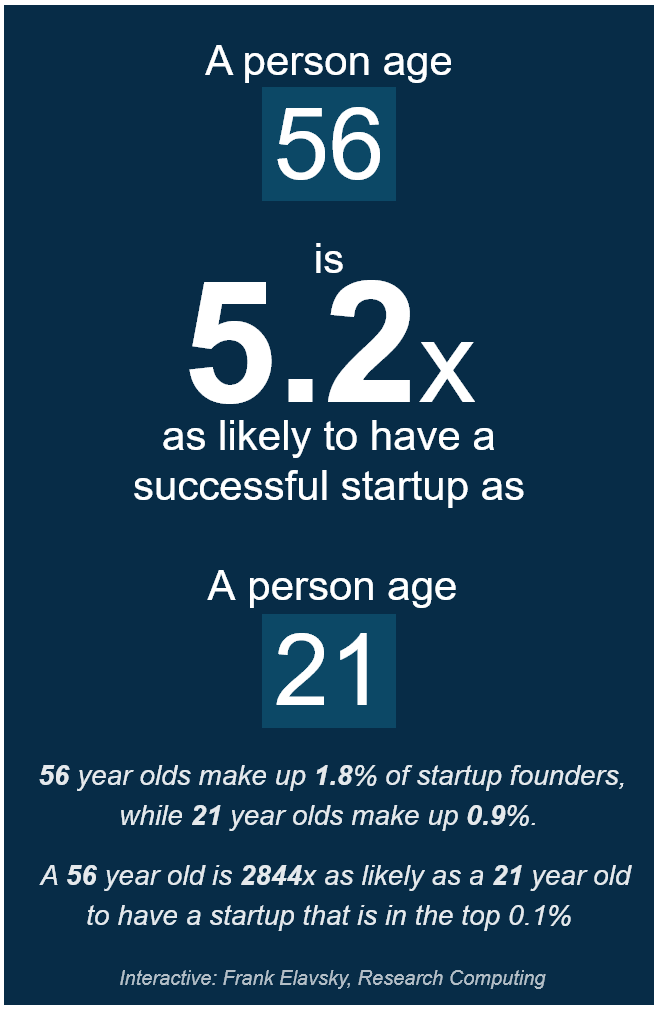
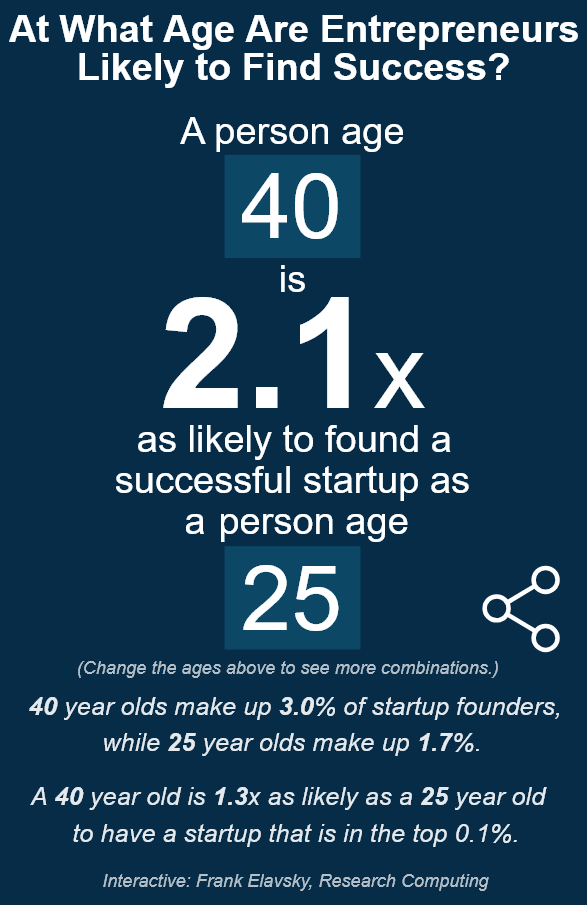
added title, updated text and preview

Changed region(s): [[0.0, 0.0, 1.0, 1.0], [0.3066, 0.1238, 0.3373, 0.1547]]

diff --git a/index.html b/index.html
@@ -18,10 +18,10 @@
 				<rect width="650" height="1000" style="fill: #072c47"/>
 			</g>
 			<g id="boxes">
-				<rect class='shadow' id='top-shadow' x="269" y="93" width="134" height="114" style="fill: #202121; opacity:0"/>
-				<rect class='shadow' id='bottom-shadow' x="269" y="590" width="134" height="114" style="fill: #202121; opacity:0"/>
-				<rect id='rect-top' class='tilde-rect' x="258" y="82" width="134" height="114" style="fill: #0c4866"/>
-				<rect id='rect-bottom' class='tilde-rect' x="258" y="579" width="134" height="114" style="fill: #0c4866"/>
+				<rect class='shadow' id='top-shadow' x="261" y="183" width="150" height="114" style="fill: #202121; opacity:0"/>
+				<rect class='shadow' id='bottom-shadow' x="261" y="615" width="150" height="114" style="fill: #202121; opacity:0"/>
+				<rect id='rect-top' class='tilde-rect' x="250" y="172" width="150" height="114" style="fill: #0c4866"/>
+				<rect id='rect-bottom' class='tilde-rect' x="250" y="604" width="150" height="114" style="fill: #0c4866"/>
 			</g>
 			<g id="button" style='display:none'>
 				<g>
@@ -33,35 +33,42 @@
 					<rect id='button-frame' x='530' y='620' width='97' height='106' style='fill:white;stroke-width:0px;opacity:0'/>
 				</g>
 			</g>
-			<g id="mass_text">
-				<text transform="translate(309.83 258.07)" style="font-size: 42px;fill: #fff;font-family: ArialMT, Arial">is</text>
-				<text transform="translate(158.08 435.07)" style="font-size: 42px;fill: #fff;font-family: ArialMT, Arial">as likely to have a <tspan x="-29.16" y="50.4">successful startup as</tspan></text>
-				<text transform="translate(201.24 70.32)" style="font-size: 42px;fill: #fff;font-family: ArialMT, Arial"><tspan style="letter-spacing: -0.05517578125em">A</tspan><tspan x="25.7" y="0" xml:space="preserve"> person age</tspan></text>
-				<text transform="translate(196.56 565.07)" style="font-size: 42px;fill: #fff;font-family: ArialMT, Arial"><tspan xml:space="preserve" style="letter-spacing: -0.05517578125em"> A</tspan><tspan x="35.05" y="0" xml:space="preserve"> person age</tspan></text>
-				<text id='suggestion' transform="translate(165 720)" style="font-size: 20px;fill: #fff;font-family: ArialMT, Arial;font-style: italic;opacity:0.7">(Try interacting above to see more!)</text>
 
-				<text transform="translate(34 780)" style="font-size: 28px;fill: #fff;font-family: ArialMT, Arial;font-style: italic;opacity:0.9"><tspan class='top-age' style='font-weight: bold'>40</tspan><tspan> year olds make up </tspan><tspan id='top-prop' style='font-weight: bold'>3.0</tspan><tspan>% of startup founders,</tspan></text>
-				<text transform="translate(115 820)" style="font-size: 28px;fill: #fff;font-family: ArialMT, Arial;font-style: italic;opacity:0.9">while <tspan class='bottom-age' style='font-weight: bold'>25</tspan><tspan> year olds make up </tspan><tspan id='bottom-prop' style='font-weight: bold'>1.7</tspan><tspan>%.</tspan></text>
+			<text id='interactive_title' transform="translate(12 47)" style="font-size: 42px;fill: #fff;font-family: ArialMT, Arial;font-weight: bold;opacity:1">At What Age Are Entrepreneurs</text>
+			<text id='interactive_title' transform="translate(87 89)" style="font-size: 42px;fill: #fff;font-family: ArialMT, Arial;font-weight: bold;opacity:1">Likely to Find Success?</text>
 
-				<text transform="translate(36 880)" style="font-size: 28px;fill: #fff;font-family: ArialMT, Arial;font-style: italic;opacity:0.9">A <tspan class='top-age' style='font-weight: bold'>40</tspan><tspan> year old is </tspan><tspan id='top-value' style='font-weight: bold'>1.3</tspan><tspan>x as likely as a </tspan><tspan class='bottom-age' style='font-weight: bold'>25</tspan><tspan> year old</tspan></text>
-				<text transform="translate(82 920)" style="font-size: 28px;fill: #fff;font-family: ArialMT, Arial;font-style: italic;opacity:0.9"><tspan>to have a startup that is in the top 0.1%</tspan></text>
+			<text transform="translate(201.24 160.32)" style="font-size: 42px;fill: #fff;font-family: ArialMT, Arial"><tspan style="letter-spacing: -0.05517578125em">A</tspan><tspan x="25.7" y="0" xml:space="preserve"> person age</tspan></text>
 
-				<text transform="translate(115 980)" style="font-size: 20px;fill: #fff;font-family: ArialMT, Arial;font-style: italic;opacity:0.7"><tspan x="0" y="0" xml:space="preserve">Interactive: Frank Elavsky, Research Computing</tspan></text>
-
-			</g>
-			<g>
-				<text transform="translate(178.09 386.72)" style="font-size: 170px;fill: #fff;font-family: Arial-BoldMT, Arial"><tspan id="value" style="font-weight: 700">2.1</tspan><tspan x="236.32" y="0" style="font-size: 115px;font-family: ArialMT, Arial">x</tspan></text>
-			</g>
-			<foreignObject transform="translate(258 82)" width='134' height='114' class=''>
+			<foreignObject transform="translate(264 172)" width='134' height='114' class=''>
 				<div xmlns="http://www.w3.org/1999/xhtml">
 					<input id='input-top' type='number' min='20' max='65' value='40' style='font-family: Arial-BoldMT, Arial;border:none;text-align:center;height:auto;font-size: 100px;width:134px;padding:0;background:none;color:white'>
 				</div>
 			</foreignObject>
-			<foreignObject transform="translate(258 579)" width='134' height='114' class=''>
+
+			<text transform="translate(309.83 323.07)" style="font-size: 42px;fill: #fff;font-family: ArialMT, Arial">is</text>
+			<g>
+				<text transform="translate(178.09 451.72)" style="font-size: 170px;fill: #fff;font-family: Arial-BoldMT, Arial"><tspan id="value" style="font-weight: 700">2.1</tspan><tspan x="236.32" y="0" style="font-size: 115px;font-family: ArialMT, Arial">x</tspan></text>
+			</g>
+
+			<text transform="translate(153.08 500.07)" style="font-size: 42px;fill: #fff;font-family: ArialMT, Arial">as likely to found a <tspan x="-24.16" y="45.4">successful startup as</tspan></text>
+			
+			<text transform="translate(196.56 590.07)" style="font-size: 42px;fill: #fff;font-family: ArialMT, Arial"><tspan xml:space="preserve" style="letter-spacing: -0.05517578125em"> a</tspan><tspan x="35.05" y="0" xml:space="preserve"> person age</tspan></text>
+
+			<foreignObject transform="translate(264 604)" width='134' height='114' class=''>
 				<div xmlns="http://www.w3.org/1999/xhtml">
 					<input id='input-bottom' type='number' min='20' max='65' value='25' style='font-family: Arial-BoldMT, Arial;border:none;text-align:center;height:auto;font-size: 100px;width:134px;padding:0;background:none;color:white'>
 				</div>
 			</foreignObject>
+
+			<text id='suggestion' transform="translate(87 745)" style="font-size: 20px;fill: #fff;font-family: ArialMT, Arial;font-style: italic;opacity:0.7">(Change the ages above to see more combinations.)</text>
+
+			<text transform="translate(34 790)" style="font-size: 28px;fill: #fff;font-family: ArialMT, Arial;font-style: italic;opacity:0.9"><tspan class='top-age' style='font-weight: bold'>40</tspan><tspan> year olds make up </tspan><tspan id='top-prop' style='font-weight: bold'>3.0</tspan><tspan>% of startup founders,</tspan></text>
+			<text transform="translate(115 830)" style="font-size: 28px;fill: #fff;font-family: ArialMT, Arial;font-style: italic;opacity:0.9">while <tspan class='bottom-age' style='font-weight: bold'>25</tspan><tspan> year olds make up </tspan><tspan id='bottom-prop' style='font-weight: bold'>1.7</tspan><tspan>%.</tspan></text>
+
+			<text transform="translate(36 890)" style="font-size: 28px;fill: #fff;font-family: ArialMT, Arial;font-style: italic;opacity:0.9">A <tspan class='top-age' style='font-weight: bold'>40</tspan><tspan> year old is </tspan><tspan id='top-value' style='font-weight: bold'>1.3</tspan><tspan>x as likely as a </tspan><tspan class='bottom-age' style='font-weight: bold'>25</tspan><tspan> year old</tspan></text>
+			<text transform="translate(76 930)" style="font-size: 28px;fill: #fff;font-family: ArialMT, Arial;font-style: italic;opacity:0.9"><tspan>to found a startup that is in the top 0.1%.</tspan></text>
+
+			<text transform="translate(115 980)" style="font-size: 20px;fill: #fff;font-family: ArialMT, Arial;font-style: italic;opacity:0.7"><tspan x="0" y="0" xml:space="preserve">Interactive: Frank Elavsky, Research Computing</tspan></text>
 		</svg>
 	</body>
 
